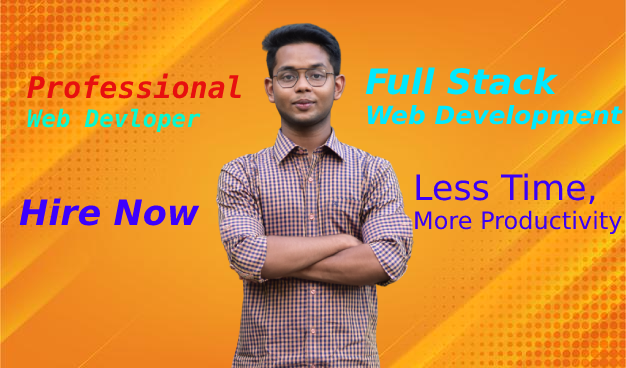
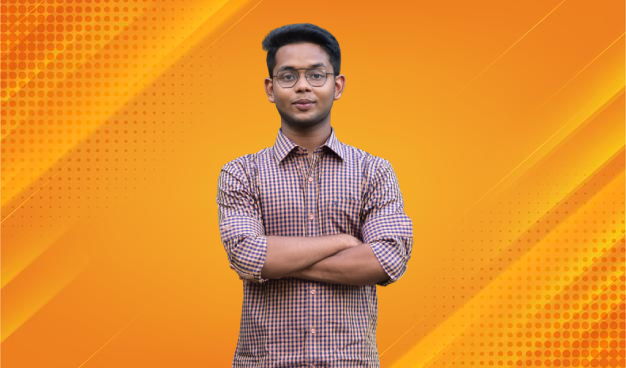
done with first part

diff --git a/index.html b/index.html
@@ -1,0 +1,23 @@
+<!DOCTYPE html>
+<html lang="en">
+
+<head>
+    <meta charset="UTF-8">
+    <meta http-equiv="X-UA-Compatible" content="IE=edge">
+    <meta name="viewport" content="width=device-width, initial-scale=1.0">
+    <title>Second Portfolio</title>
+    <link rel="stylesheet" href="style.css">
+</head>
+
+<body>
+    <section class="upper">
+        <div class="first-div">
+            <h2 class="h2">Hello, MY NAME IS</h2>
+            <h1 class="h1">Mashrafi Bin Shoyeb</h1>
+            <h2 class="h2">Full-Stack Web Developer</h2>
+        </div>
+
+    </section>
+</body>
+
+</html>

diff --git a/style.css b/style.css
@@ -1,0 +1,28 @@
+body {
+    margin: 0;
+    padding: 0;
+    font-family: Arial, Helvetica, sans-serif;
+}
+
+.upper {
+    background-image: url(org-bg.png);
+    background-repeat: no-repeat;
+    background-size: cover;
+    padding: 352px;
+    margin: 0;
+}
+
+.h2 {
+    color: rgb(255, 255, 255);
+    text-align: left;
+}
+
+.h1 {
+    font-size: 50px;
+    text-align: left;
+    color: rgb(255, 255, 255);
+}
+
+.first-div {
+    text-shadow: 10px 5px 25px blue;
+}
